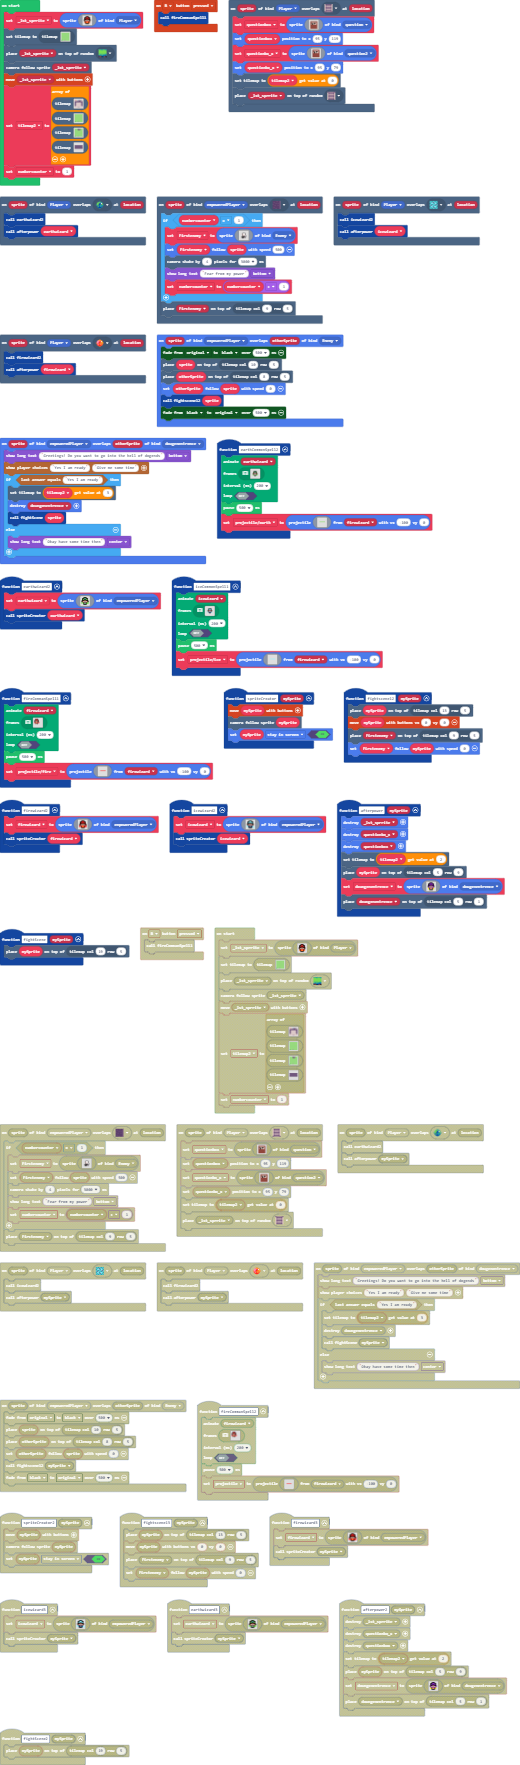
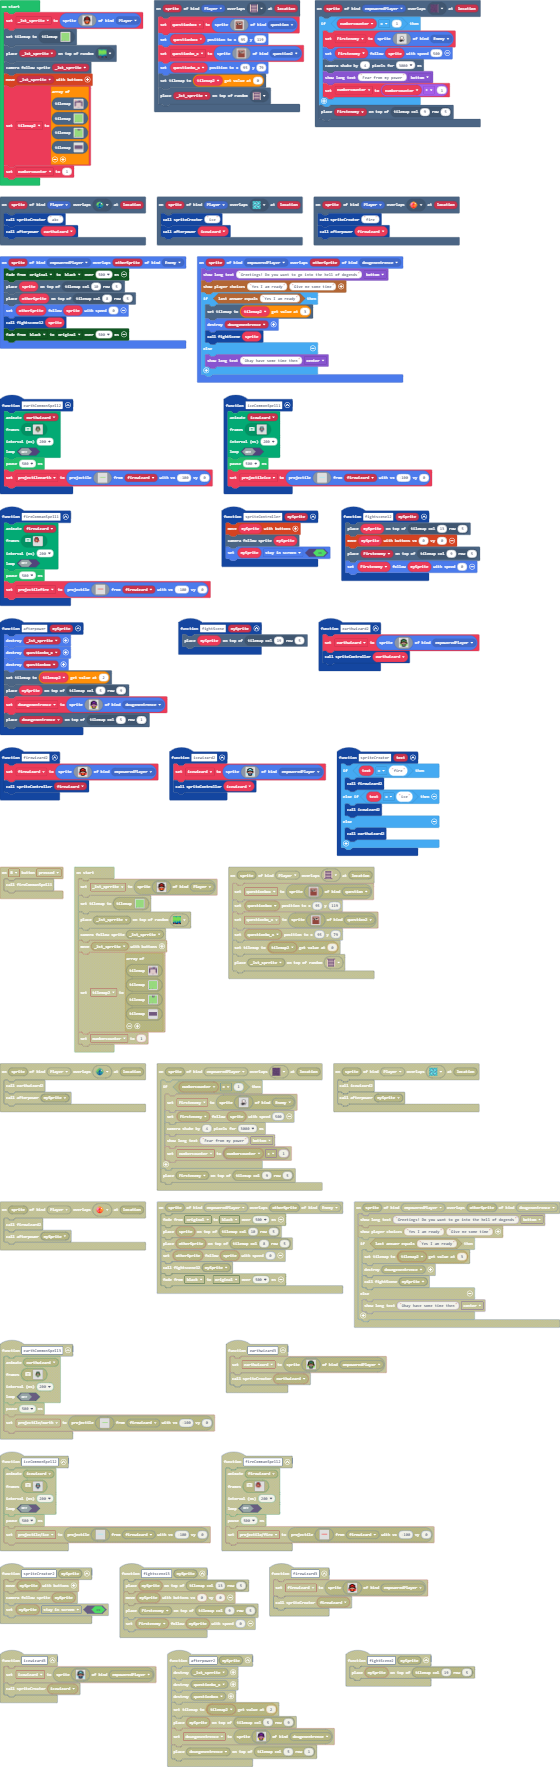
Update main.blocks, main.ts

diff --git a/main.ts b/main.ts
@@ -61,9 +61,6 @@ scene.onOverlapTile(SpriteKind.empoweredPlayer, sprites.dungeon.stairNorth, func
     game.showLongText("You may no longer enter", DialogLayout.Center)
     pause(500)
 })
-controller.B.onEvent(ControllerButtonEvent.Pressed, function () {
-    fireCommanSpell1()
-})
 sprites.onOverlap(SpriteKind.Player, SpriteKind.question, function (sprite, otherSprite) {
     game.showLongText("How did you get here?", DialogLayout.Bottom)
     story.showPlayerChoices("I went down the stairs", "Why do you need to know?")
@@ -273,6 +270,11 @@ function earthCommonSpell2 () {
         . . . . . . . . . . . . . . . . 
         `, firewizard, -100, 0)
 }
+function spriteController (mySprite: Sprite) {
+    controller.moveSprite(mySprite)
+    scene.cameraFollowSprite(mySprite)
+    mySprite.setFlag(SpriteFlag.StayInScreen, true)
+}
 function fightScene (mySprite: Sprite) {
     tiles.placeOnTile(mySprite, tiles.getTileLocation(19, 5))
 }
@@ -306,7 +308,7 @@ function earthwizard2 () {
         . . . . . f f f f f f . . . . . 
         . . . . . f f . . f f . . . . . 
         `, SpriteKind.empoweredPlayer)
-    spriteCreator(earthwizard)
+    spriteController(earthwizard)
 }
 sprites.onOverlap(SpriteKind.empoweredPlayer, SpriteKind.Enemy, function (sprite, otherSprite) {
     color.startFade(color.originalPalette, color.Black, 500)
@@ -317,13 +319,17 @@ sprites.onOverlap(SpriteKind.empoweredPlayer, SpriteKind.Enemy, function (sprite
     color.startFade(color.Black, color.originalPalette, 500)
 })
 scene.onOverlapTile(SpriteKind.Player, sprites.dungeon.collectibleBlueCrystal, function (sprite, location) {
-    earthwizard2()
+    spriteCreator("abc")
     afterpower(earthwizard)
 })
-function spriteCreator (mySprite: Sprite) {
-    controller.moveSprite(mySprite)
-    scene.cameraFollowSprite(mySprite)
-    mySprite.setFlag(SpriteFlag.StayInScreen, true)
+function spriteCreator (text: string) {
+    if (text == "fire") {
+        firewizard2()
+    } else if (text == "ice") {
+        icewizard2()
+    } else {
+        earthwizard2()
+    }
 }
 function fightscene12 (mySprite: Sprite) {
     tiles.placeOnTile(mySprite, tiles.getTileLocation(13, 5))
@@ -350,7 +356,7 @@ function firewizard2 () {
         . . . . . f f f f f f . . . . . 
         . . . . . f f . . f f . . . . . 
         `, SpriteKind.empoweredPlayer)
-    spriteCreator(firewizard)
+    spriteController(firewizard)
 }
 function afterpower (mySprite: Sprite) {
     sprites.destroy(_1st_sprrite)
@@ -634,14 +640,14 @@ function icewizard2 () {
         . . . . . f f f f f f . . . 9 9 
         . . . . . f f . . f f . . . . 9 
         `, SpriteKind.empoweredPlayer)
-    spriteCreator(icewizard)
+    spriteController(icewizard)
 }
 scene.onOverlapTile(SpriteKind.Player, sprites.dungeon.collectibleRedCrystal, function (sprite, location) {
-    firewizard2()
+    spriteCreator("fire")
     afterpower(firewizard)
 })
 scene.onOverlapTile(SpriteKind.Player, sprites.dungeon.collectibleInsignia, function (sprite, location) {
-    icewizard2()
+    spriteCreator("ice")
     afterpower(icewizard)
 })
 function iceCommonSpell1 () {
